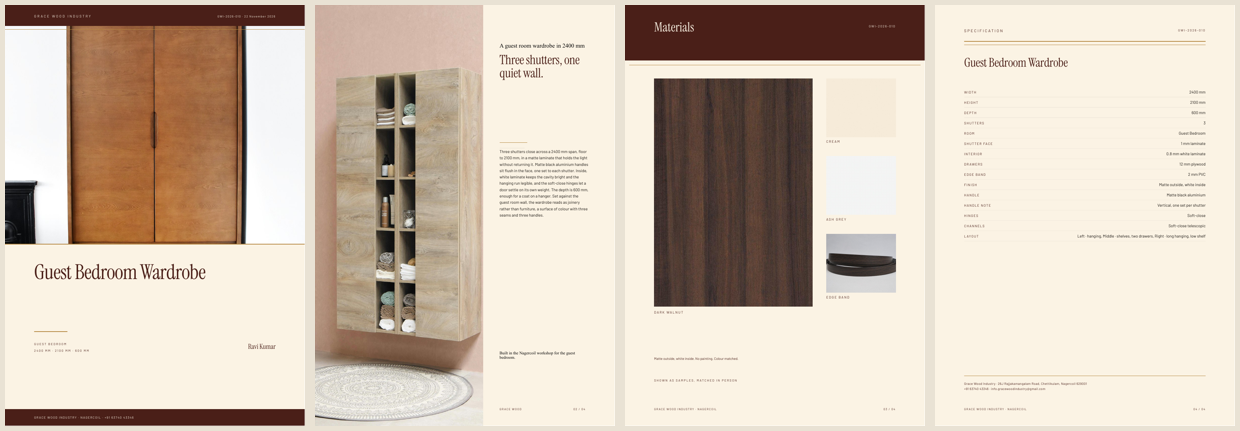
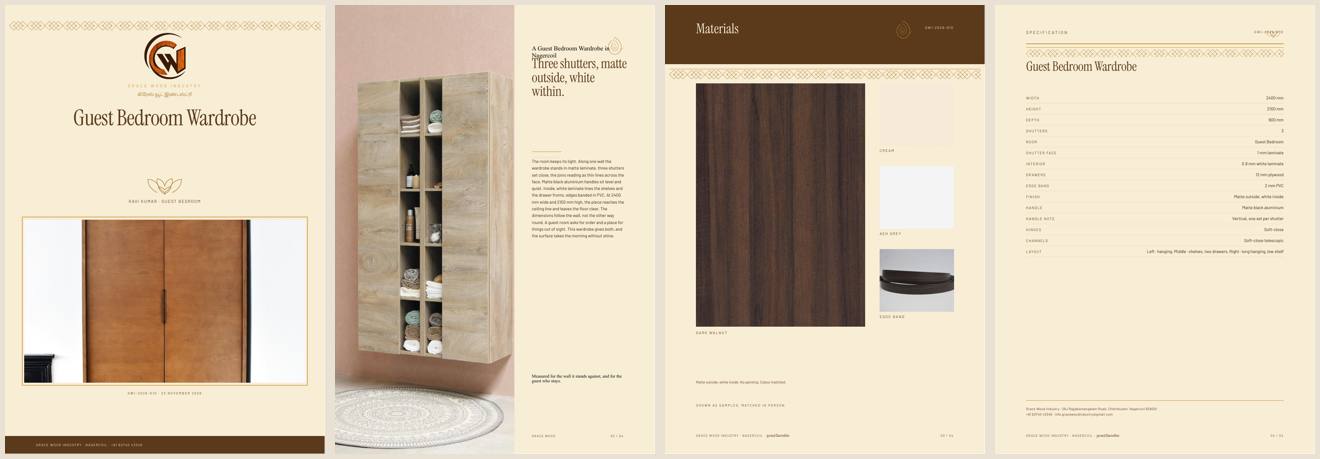
Indian identity: Tamil brand line, motifs and Indian palettes
The brochure is now unmistakably Indian, not just warm coloured.

- five Indian tones replace the old set: maroon, teal, copper, sandal, peacock
- Tamil brand line கிரேஸ் வூட் இண்டஸ்ட்ரி on every cover, bilingual
  contact strip, Tamil workshop name in the folio and address
- ornament drawn for the document: jaali lattice border, paisley corners,
  lotus medallions, rangoli mark, temple arch behind framed photographs
- covers carry a maroon band with English and Tamil wordmark, gold ornament
  frame, paisley corners over photo leads
- app headers now show the Tamil brand line under Grace Wood

Tests: 93 server, 94 browser.

diff --git a/app/app/(tabs)/materials.tsx b/app/app/(tabs)/materials.tsx
@@ -20,6 +20,7 @@ import { ErrorState, LoadingState } from '@/components/StateViews';
 import { api, errorMessage, fileUrl, type Material } from '@/lib/api';
 import { useBootstrap } from '@/lib/bootstrap';
 import { colors, layout, shared, space, text } from '@/lib/theme';
+import { TamilLine } from '@/components/TamilLine';
 
 const GRID_GAP = space.lg;
 const HEX_PATTERN = /^#[0-9a-fA-F]{3}([0-9a-fA-F]{3})?$/;
@@ -43,6 +44,7 @@ export default function MaterialsScreen() {
   const header = (
     <View style={styles.header}>
       <Text style={text.eyebrow}>Grace Wood</Text>
+            <TamilLine />
       <Text style={[text.screenTitle, styles.title]}>Materials</Text>
       <Text style={[text.muted, styles.subtitle]}>Colours in the studio catalogue.</Text>
       <View style={styles.actionsRow}>

diff --git a/app/app/(tabs)/orders.tsx b/app/app/(tabs)/orders.tsx
@@ -9,6 +9,7 @@ import { openUrl } from '@/lib/actions';
 import { useBootstrap } from '@/lib/bootstrap';
 import { orderDimensions, sortOrders, statusLabel } from '@/lib/format';
 import { layout, shared, space, text, colors } from '@/lib/theme';
+import { TamilLine } from '@/components/TamilLine';
 
 export default function OrdersScreen() {
   const { data, loading, error, reload } = useBootstrap();
@@ -57,6 +58,7 @@ export default function OrdersScreen() {
     <View>
       <View style={styles.header}>
         <Text style={text.eyebrow}>Catalogue studio</Text>
+        <TamilLine />
         <Text style={[text.display, styles.title]}>Grace Wood</Text>
         <Text style={[text.muted, styles.subtitle]}>
           Every order the chat has made, with the brochure it produced.

diff --git a/app/app/(tabs)/settings.tsx b/app/app/(tabs)/settings.tsx
@@ -15,6 +15,7 @@ import {
   type LlmSettings,
 } from '@/lib/api';
 import { colors, layout, shared, space, text } from '@/lib/theme';
+import { TamilLine } from '@/components/TamilLine';
 
 const APP_VERSION = Constants.expoConfig?.version ?? '1.0.0';
 const SDK_VERSION = Constants.expoConfig?.sdkVersion ?? '58';
@@ -105,6 +106,7 @@ export default function SettingsScreen() {
         <View style={shared.frame}>
           <View style={styles.header}>
             <Text style={text.eyebrow}>Grace Wood</Text>
+            <TamilLine />
             <Text style={[text.screenTitle, styles.title]}>Settings</Text>
             <Text style={[text.muted, styles.subtitle]}>Connection, model and app details.</Text>
           </View>

diff --git a/app/app/(tabs)/index.tsx b/app/app/(tabs)/index.tsx
@@ -26,6 +26,7 @@ import {
 } from '@/lib/api';
 import { openUrl } from '@/lib/actions';
 import { colors, space, text } from '@/lib/theme';
+import { TamilLine } from '@/components/TamilLine';
 
 type Bubble =
   | {
@@ -330,6 +331,7 @@ export default function ChatScreen() {
         <View style={styles.header}>
           <View style={styles.headerText}>
             <Text style={text.eyebrow}>Grace Wood</Text>
+            <TamilLine />
             <Text style={[text.screenTitle, styles.title]}>Studio chat</Text>
           </View>
           {bubbles.length > 1 || orderCreated ? (

diff --git a/app/components/TamilLine.tsx b/app/components/TamilLine.tsx
@@ -1,0 +1,21 @@
+import { StyleSheet, Text } from 'react-native';
+
+import { colors } from '@/lib/theme';
+
+/** The brand line in Tamil, printed under the English wordmark. */
+export function TamilLine() {
+  return (
+    <Text style={styles.line} accessibilityLanguage="ta">
+      கிரேஸ் வூட் இண்டஸ்ட்ரி
+    </Text>
+  );
+}
+
+const styles = StyleSheet.create({
+  line: {
+    marginTop: 2,
+    fontSize: 12,
+    lineHeight: 18,
+    color: colors.faint,
+  },
+});

diff --git a/README.md b/README.md
@@ -59,7 +59,11 @@ It is built as an Indian workshop brochure, not a report:
 3. **Materials.** A maroon header and the four finish textures at size with their names. A colour page, not a table.
 4. **Specification.** Dimensions, materials and hardware, set quietly at the back for the workshop and the client file.
 
-Warm cream stock, deep maroon, gold rules and ornament, display type at 30 to 46 point and body text at 8 point. The thirty hand-built designs remain available under Change design for a manual override, but the default path is generated per order.
+Warm cream stock, deep maroon, gold rules and Indian ornament: a jaali border across the head of the page, paisley and lotus motifs, a rangoli mark and a temple arch behind the framed photograph. The brand appears in English and Tamil (கிரேஸ் வூட் இண்டஸ்ட்ரி) on the cover, the contact strip is bilingual, and the tones are Indian: maroon, teal, copper, sandal and peacock. Display type runs 30 to 46 point and body text 8 point.
+
+The studio app carries the same Tamil brand line under its headers.
+
+The thirty hand-built designs remain available under Change design for a manual override, but the default path is generated per order.
 
 
 The extraction rules matter as much as the conversation. Bare dimensions become millimetres, counts become digits, unknown fields are dropped, and a reply without usable JSON is rejected with a readable error. A field is only ready when the customer actually said it, never guessed.

diff --git a/CONTRACT.md b/CONTRACT.md
@@ -279,7 +279,10 @@ copy in one reply:
 ```
 
 Allowed values are checked, photo indexes are clamped, and the copy passes the
-same quality gate as the classic path. The server compiles the design to HTML
+same quality gate as the classic path. The tone selects one of five Indian
+palettes (maroon, teal, copper, sandal, peacock) over warm cream stock with gold
+rules, a Tamil brand line and Indian ornament (jaali border, paisley, lotus,
+rangoli, temple arch). The server compiles the design to HTML
 and CSS from print safe primitives; the provider never writes markup. The
 resulting render has `kind: "ai"`, `templateId: null` and a `design` object with
 the composition and a human label. Designs are cached by prompt like other model
